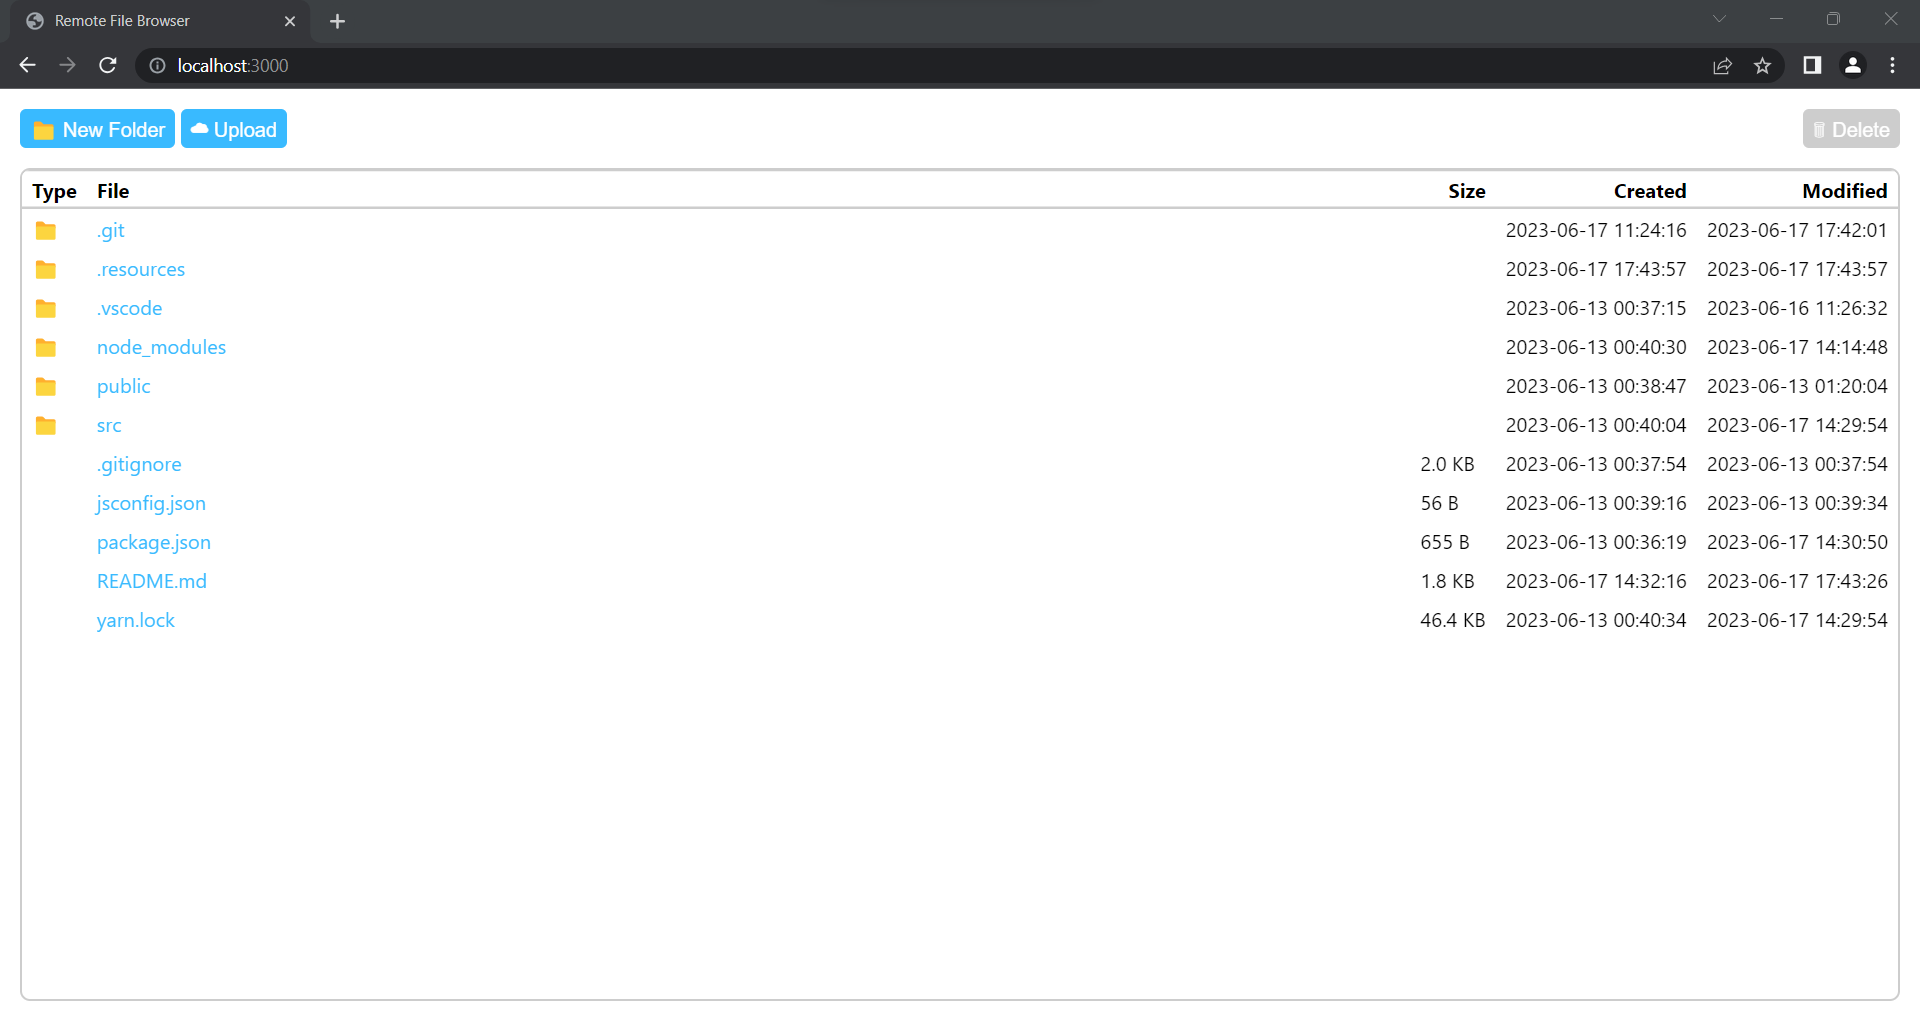
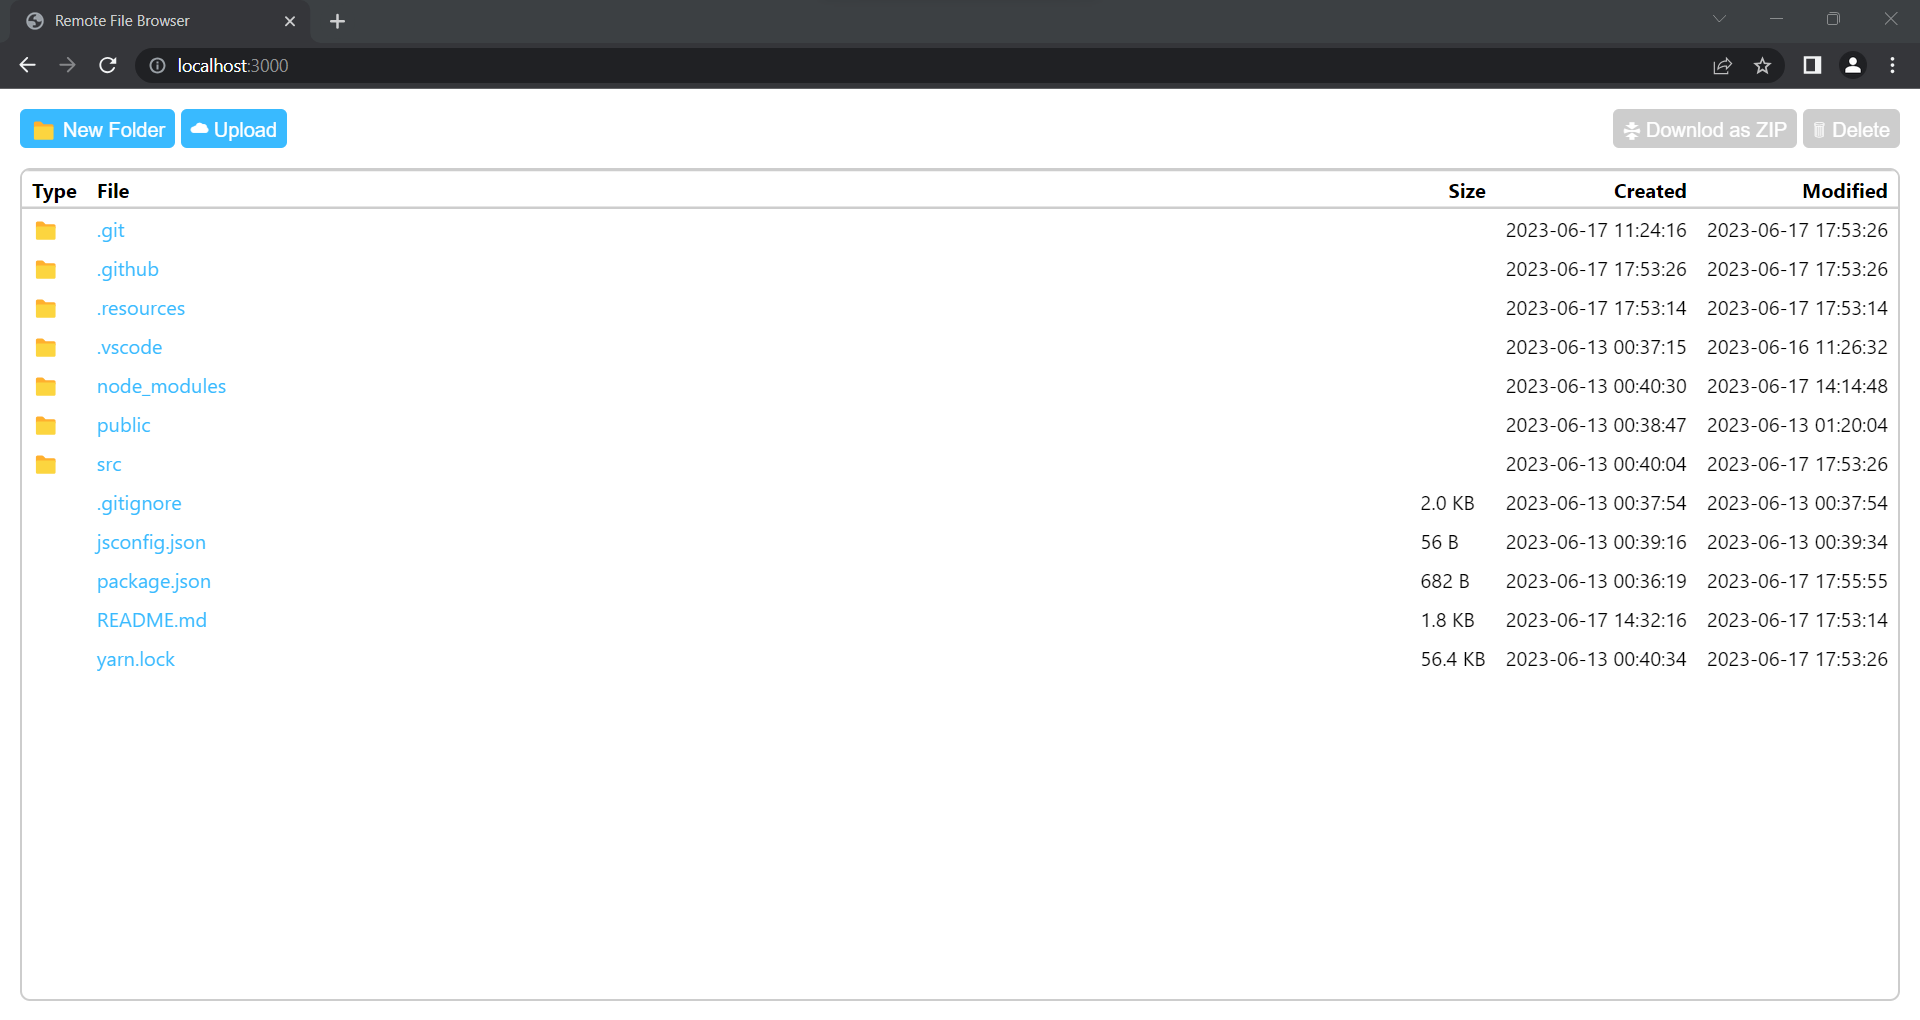
Update screenshots & README

diff --git a/README.md b/README.md
@@ -12,7 +12,8 @@ This is meant to be used as a quick and simple remote file browser. **THIS IS NO
 ## Features
 
 - Optional HTTP basic auth support
-- Download files
+- Download single files
+- Download multiple files or folders as ZIP archive
 - Upload single or multiple files
 - Delete multiple files or folders
 - Supports dark theme in modern browsers
